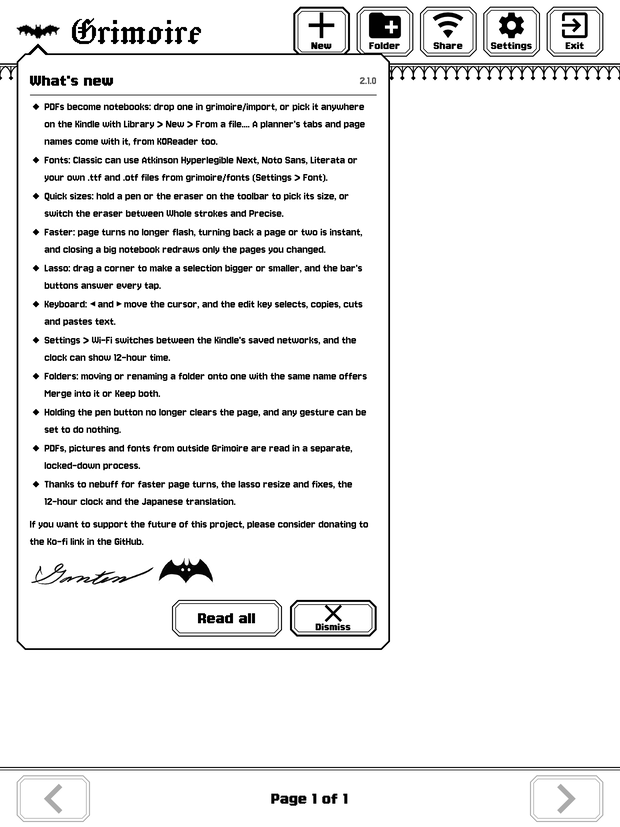
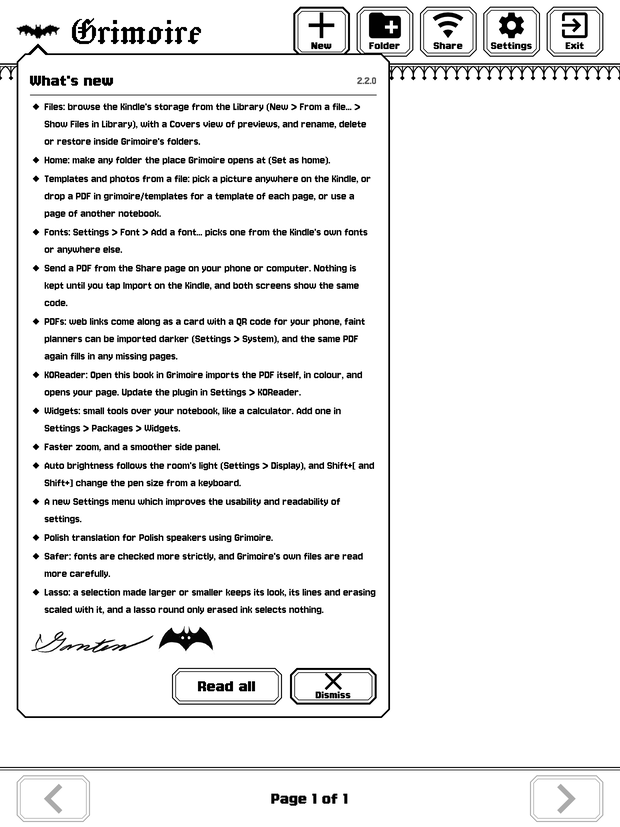
release: prepare 2.2.0
The first release of 2.2, from release/2.2.0, on the owner's word of 2026-11-25 ("let's fix ourselves and ship").
VERSION 2.2.0; CHANGELOG's 2.2.0 section dated 2026-11-26; docs/TESTING.md's 2.2.0 section; What's new is
docs/whatsnew/2.2.0.md as the owner vetted it on 2026-11-25 (#256); z_about.qs and z_about_list.qs set to the new
notes (the first 14 of 16 on the card upright, 9 sideways, the rest Read all's; the list's 6 rows, this version
first, marked, dated); docs/screens/whatsnew.png from the new card; po/grimoire.pot's header. README has no
banner (a stable release). The crate-age rule was waived for this release by the owner on 2026-11-25: wasmi,
wasmi_collections, wasmi_core and wasmi_ir 2.0.3, two weeks old on 2026-12-08 (tools/check-crate-dates.py
--tag-date 2026-11-26 lists these four alone).

Refs #233

Claude-Session: https://claude.ai/code/session_01Uoe9ZJNyEZYoc4bsjqbSyQ

Changed region(s): [[0.0306, 0.1209, 0.6435, 0.8767], [0.0, 0.786, 0.0306, 0.8464]]

diff --git a/docs/TESTING.md b/docs/TESTING.md
@@ -3666,3 +3666,20 @@ They check the headless runner's panel; on the Kindle, check what the screen sho
     notebook, Select, Paste: the line is scaled down to fit the page, and on the screen it looks as it did in the
     notebook it came from, its lines as thick and its gaps as wide (before 2.2 they kept their width in mm and came
     out a little thicker and wider). Undo.
+
+## 2.2.0
+
+The first release of 2.2, from `release/2.2.0`: cut from `main` at `75ec0993` on 2026-11-23, with the work merged
+into it since (#240, #244, #246, #81, #258, #256, #269, #270), everything in CHANGELOG's 2.2.0 section. Automated:
+the full gate on the release commit with the pinned toolchain. On 2026-11-25 the owner chose to release it ("let's
+fix ourselves and ship"); the published Calculator widget, whose manifest declared no capabilities and which 2.2
+refuses at install, was fixed the same day in the Package Store's own repository (Calculator 1.2.1), not in
+Grimoire. The crate-age rule (two weeks at the tag) was waived for this release by the owner on 2026-11-25:
+wasmi, wasmi_collections, wasmi_core and wasmi_ir 2.0.3 (2026-11-24) are younger: 2.0.0 to 2.0.2 were yanked that
+day and the deny check refused them. All four are two weeks old on 2026-12-08. Builds of `release/2.2.0`
+ran on the owner's Scribe (firmware 5.20.1.0.2) before the bump, each installed after a backup with the notebooks
+unchanged and KOReader left alone: `b6d78f46` (build `76611b5d45cb`) and `024f5388` (build `c5a8692967d6`, the
+release's code before this commit), both on 2026-11-25; the widget fetcher's and the app host's curl options were
+accepted by that Scribe's curl (8.15.0) the same day. The device checks listed in #100 were not reported before
+this commit. Not yet checked on a Scribe with this release's own build: its What's new, which opens by itself on
+the first start after the update.

diff --git a/CHANGELOG.md b/CHANGELOG.md
@@ -1,6 +1,6 @@
 # Changelog
 
-## 2.2.0 (unreleased)
+## 2.2.0 (2026-11-26)
 
 - **A new Settings menu** (#115, nebuff). Settings opens as a menu of six groups, General, Display, Sleep & Clock,
   Pen, Controls and System, each row opening its own sheet.
